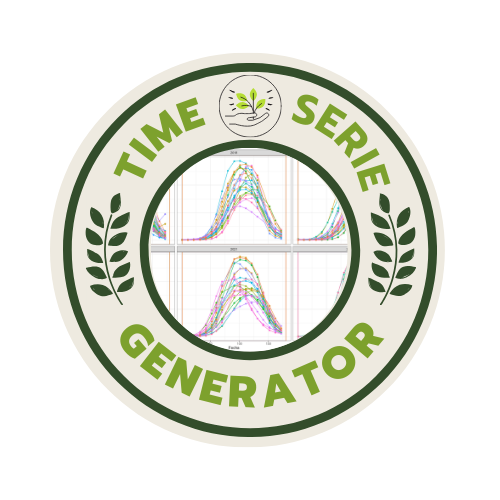
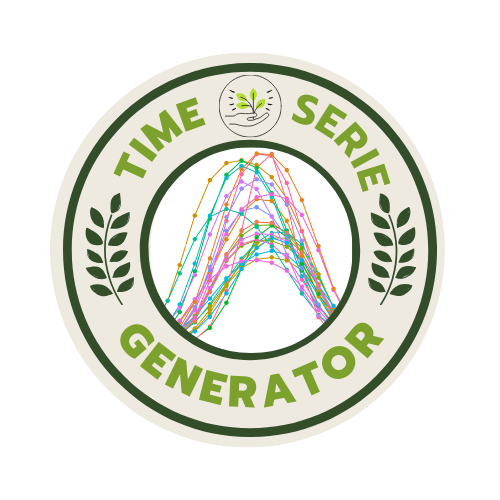
Update

Changed region(s): [[0.3, 0.27, 0.72, 0.72]]

diff --git a/README.md b/README.md
@@ -1,5 +1,5 @@
 # TSGenerator
-![TSGenerator](image/TSGenerator.png)
+![TSGenerator](image/TS.png)
 
 **TSGenerator** is an R package designed to facilitate the generation and time series analysis of Copernicus HR-VPP products. This package includes functions for data imputation, analysis and visualization.
 
